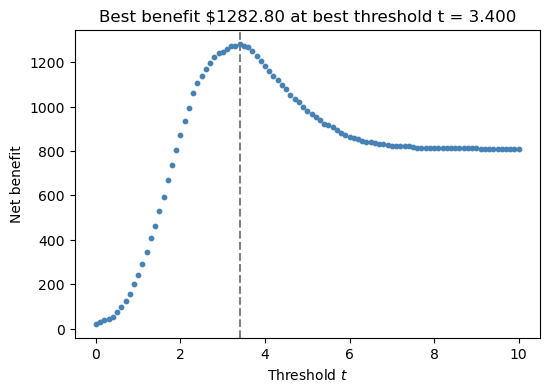
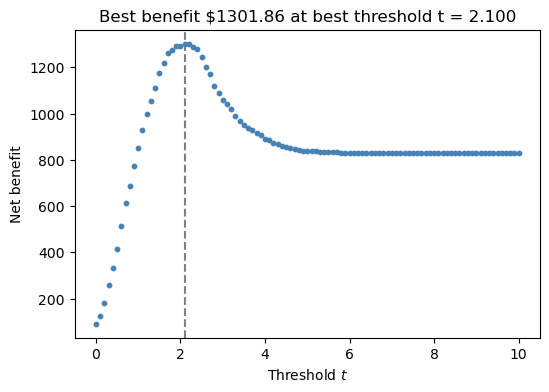
update

diff --git a/docs/posts/Blog 2/index.html b/docs/posts/Blog 2/index.html
@@ -214,7 +214,7 @@ background-size: cover;
 
 <section id="data-exploration" class="level1">
 <h1>Data Exploration</h1>
-<div id="cell-2" class="cell" data-execution_count="21">
+<div id="cell-2" class="cell" data-execution_count="2">
 <div class="sourceCode cell-code" id="cb1"><pre class="sourceCode python code-with-copy"><code class="sourceCode python"><span id="cb1-1"><a href="#cb1-1" aria-hidden="true" tabindex="-1"></a><span class="im">import</span> pandas <span class="im">as</span> pd</span>
 <span id="cb1-2"><a href="#cb1-2" aria-hidden="true" tabindex="-1"></a><span class="im">import</span> numpy <span class="im">as</span> np</span>
 <span id="cb1-3"><a href="#cb1-3" aria-hidden="true" tabindex="-1"></a><span class="im">import</span> seaborn <span class="im">as</span> sns</span>
@@ -230,7 +230,7 @@ background-size: cover;
 <span id="cb1-13"><a href="#cb1-13" aria-hidden="true" tabindex="-1"></a><span class="co"># make a copy to use and view that data</span></span>
 <span id="cb1-14"><a href="#cb1-14" aria-hidden="true" tabindex="-1"></a>df_ <span class="op">=</span> df_train.copy()</span>
 <span id="cb1-15"><a href="#cb1-15" aria-hidden="true" tabindex="-1"></a>df_</span></code><button title="Copy to Clipboard" class="code-copy-button"><i class="bi"></i></button></pre></div>
-<div class="cell-output cell-output-display" data-execution_count="21">
+<div class="cell-output cell-output-display" data-execution_count="2">
 <div>
 
 
@@ -426,7 +426,7 @@ background-size: cover;
 </div>
 </div>
 <p>Lets explore how loan intent varies across age groups</p>
-<div id="cell-4" class="cell" data-execution_count="22">
+<div id="cell-4" class="cell" data-execution_count="3">
 <div class="sourceCode cell-code" id="cb2"><pre class="sourceCode python code-with-copy"><code class="sourceCode python"><span id="cb2-1"><a href="#cb2-1" aria-hidden="true" tabindex="-1"></a><span class="co"># first lets add a column for age groups</span></span>
 <span id="cb2-2"><a href="#cb2-2" aria-hidden="true" tabindex="-1"></a>df_[<span class="st">"age_group"</span>] <span class="op">=</span> df_[<span class="st">"person_age"</span>] <span class="op">//</span> <span class="dv">10</span></span>
 <span id="cb2-3"><a href="#cb2-3" aria-hidden="true" tabindex="-1"></a>df_[<span class="st">"age_group"</span>][df_[<span class="st">"age_group"</span>] <span class="op">&gt;=</span> <span class="dv">10</span> ] <span class="op">=</span> <span class="dv">10</span></span>
@@ -449,7 +449,7 @@ background-size: cover;
 <span id="cb2-20"><a href="#cb2-20" aria-hidden="true" tabindex="-1"></a>ax.set_xlabel(<span class="st">"Age Group"</span>)</span>
 <span id="cb2-21"><a href="#cb2-21" aria-hidden="true" tabindex="-1"></a>ax.set_ylabel(<span class="st">"Proportion"</span>)</span>
 <span id="cb2-22"><a href="#cb2-22" aria-hidden="true" tabindex="-1"></a>ax.set_title(<span class="st">"Loan Intent by Age"</span>)</span></code><button title="Copy to Clipboard" class="code-copy-button"><i class="bi"></i></button></pre></div>
-<div class="cell-output cell-output-display" data-execution_count="22">
+<div class="cell-output cell-output-display" data-execution_count="3">
 <pre><code>Text(0.5, 1.0, 'Loan Intent by Age')</code></pre>
 </div>
 <div class="cell-output cell-output-display">
@@ -461,7 +461,7 @@ background-size: cover;
 </div>
 </div>
 <p>The chart indicates that personal loans are most common among individuals aged 20-29, 40-49, and 90-99, suggesting a consistent need for general-purpose borrowing across different life stages. Medical loans peak in the 40-49 and 50-59 age groups, likely due to increasing healthcare expenses. Education loans spike in the 70-79 age group, which may indicate late-stage career shifts or funding for dependents. Debt consolidation loans are relatively steady, with moderate representation in the 30-39, 50-59, and 60-69 age groups. Home improvement loans have lower proportions overall but see slight increases among borrowers aged 20-29 and 80-89. Venture loans are sporadic, with small peaks in the 50-59 and 60-69 age groups, possibly reflecting mid-life entrepreneurial activity. These trends highlight how borrowing needs evolve across different age brackets.</p>
-<div id="cell-6" class="cell" data-execution_count="23">
+<div id="cell-6" class="cell" data-execution_count="4">
 <div class="sourceCode cell-code" id="cb4"><pre class="sourceCode python code-with-copy"><code class="sourceCode python"><span id="cb4-1"><a href="#cb4-1" aria-hidden="true" tabindex="-1"></a>df_2 <span class="op">=</span> df_train.copy()</span>
 <span id="cb4-2"><a href="#cb4-2" aria-hidden="true" tabindex="-1"></a>df_2[<span class="st">"income_cat"</span>] <span class="op">=</span> df_2[<span class="st">"person_income"</span>] <span class="op">//</span> <span class="dv">100000</span></span>
 <span id="cb4-3"><a href="#cb4-3" aria-hidden="true" tabindex="-1"></a></span>
@@ -486,7 +486,7 @@ Name: loan_amnt, dtype: float64</code></pre>
 </div>
 </div>
 <p>While salary (income category) does seem to affect the loan amount, with people having higher salaries taking out larger loans, the higher income categories actually often have lower loan amounts than the lower income categories. This may be a product of people making larger salaries not needing to take out loans as frequently as the middle salaries, which can afford to take out larger loans and pay them back. Let’s also determine what factors seem to be related to higher interest rates.</p>
-<div id="cell-8" class="cell" data-execution_count="24">
+<div id="cell-8" class="cell" data-execution_count="5">
 <div class="sourceCode cell-code" id="cb6"><pre class="sourceCode python code-with-copy"><code class="sourceCode python"><span id="cb6-1"><a href="#cb6-1" aria-hidden="true" tabindex="-1"></a><span class="bu">print</span>(df_train.groupby([<span class="st">"loan_int_rate"</span>, <span class="st">"loan_grade"</span>]).size())</span></code><button title="Copy to Clipboard" class="code-copy-button"><i class="bi"></i></button></pre></div>
 <div class="cell-output cell-output-stdout">
 <pre><code>loan_int_rate  loan_grade
@@ -505,7 +505,7 @@ Length: 371, dtype: int64</code></pre>
 </div>
 </div>
 <p>From this snapshot of the larger table, it seems that the high grade loans are associated with the lowest interest rates. Lets explore factors related to loan grades by grouping.</p>
-<div id="cell-10" class="cell" data-execution_count="25">
+<div id="cell-10" class="cell" data-execution_count="6">
 <div class="sourceCode cell-code" id="cb8"><pre class="sourceCode python code-with-copy"><code class="sourceCode python"><span id="cb8-1"><a href="#cb8-1" aria-hidden="true" tabindex="-1"></a>temp <span class="op">=</span> df_train.groupby(<span class="st">"loan_grade"</span>)[[<span class="st">"person_income"</span>, <span class="st">"loan_percent_income"</span>, <span class="st">"loan_amnt"</span>]].mean()</span>
 <span id="cb8-2"><a href="#cb8-2" aria-hidden="true" tabindex="-1"></a></span>
 <span id="cb8-3"><a href="#cb8-3" aria-hidden="true" tabindex="-1"></a><span class="bu">print</span>(temp)</span></code><button title="Copy to Clipboard" class="code-copy-button"><i class="bi"></i></button></pre></div>
@@ -522,7 +522,7 @@ G            77342.477273             0.243409  17384.659091</code></pre>
 </div>
 </div>
 <p>As we can see from this datatable, loan grade is directly correlated with lower percent of total income. Meaning that higher quality loans, with lower interest rates are associated with loaners whose loan takes up the smallest percent of their total income. This is likely related to the loan taking up a lower percent of their income making it less likely for them to default on the loan. It also seems to follow that people with higher income tend to take out larger loans.</p>
-<div id="cell-12" class="cell" data-execution_count="26">
+<div id="cell-12" class="cell" data-execution_count="7">
 <div class="sourceCode cell-code" id="cb10"><pre class="sourceCode python code-with-copy"><code class="sourceCode python"><span id="cb10-1"><a href="#cb10-1" aria-hidden="true" tabindex="-1"></a>sns.scatterplot(data <span class="op">=</span> temp, x <span class="op">=</span> temp[<span class="st">"person_income"</span>], y <span class="op">=</span> <span class="st">"loan_amnt"</span>, hue <span class="op">=</span> <span class="st">"loan_percent_income"</span>, legend <span class="op">=</span> <span class="st">"brief"</span>)</span></code><button title="Copy to Clipboard" class="code-copy-button"><i class="bi"></i></button></pre></div>
 <div class="cell-output cell-output-display">
 <div>
@@ -537,7 +537,7 @@ G            77342.477273             0.243409  17384.659091</code></pre>
 <section id="feature-selection-weight-assessment" class="level1">
 <h1>Feature Selection &amp; Weight Assessment</h1>
 <p>Select the predictor and target variables related to loan grade.</p>
-<div id="cell-16" class="cell" data-execution_count="27">
+<div id="cell-16" class="cell" data-execution_count="8">
 <div class="sourceCode cell-code" id="cb11"><pre class="sourceCode python code-with-copy"><code class="sourceCode python"><span id="cb11-1"><a href="#cb11-1" aria-hidden="true" tabindex="-1"></a><span class="im">from</span> sklearn.model_selection <span class="im">import</span> train_test_split</span>
 <span id="cb11-2"><a href="#cb11-2" aria-hidden="true" tabindex="-1"></a></span>
 <span id="cb11-3"><a href="#cb11-3" aria-hidden="true" tabindex="-1"></a><span class="co"># select the predictor variables identified with loan grade. Also the include the loaners default history</span></span>
@@ -564,7 +564,7 @@ G            77342.477273             0.243409  17384.659091</code></pre>
 <span id="cb11-24"><a href="#cb11-24" aria-hidden="true" tabindex="-1"></a>X_train, X_test, y_train, y_test <span class="op">=</span> train_test_split(X_model, y_model, test_size<span class="op">=</span><span class="fl">0.2</span>)</span></code><button title="Copy to Clipboard" class="code-copy-button"><i class="bi"></i></button></pre></div>
 </div>
 <p>Fit a Linear Regression model to the data and assess its accuracy of prediction. Try all combinations of predictors. Once a good model is fit, pull out the weight coefficient to use for a linear score based classifier.</p>
-<div id="cell-18" class="cell" data-execution_count="28">
+<div id="cell-18" class="cell" data-execution_count="9">
 <div class="sourceCode cell-code" id="cb12"><pre class="sourceCode python code-with-copy"><code class="sourceCode python"><span id="cb12-1"><a href="#cb12-1" aria-hidden="true" tabindex="-1"></a><span class="im">from</span> sklearn.linear_model <span class="im">import</span> LogisticRegression</span>
 <span id="cb12-2"><a href="#cb12-2" aria-hidden="true" tabindex="-1"></a><span class="im">from</span> sklearn.model_selection <span class="im">import</span> cross_val_score</span>
 <span id="cb12-3"><a href="#cb12-3" aria-hidden="true" tabindex="-1"></a><span class="im">from</span> itertools <span class="im">import</span> combinations</span>
@@ -597,7 +597,7 @@ G            77342.477273             0.243409  17384.659091</code></pre>
 <span id="cb12-30"><a href="#cb12-30" aria-hidden="true" tabindex="-1"></a>        results.append({<span class="st">"features"</span>: test_cols, <span class="st">"accuracy"</span>: accuracy})</span></code><button title="Copy to Clipboard" class="code-copy-button"><i class="bi"></i></button></pre></div>
 </div>
 <p>From the list of feature combinations, pull out the top 5 and retest them against the premade training and testing data. Once the best from this list has been identified, verify its accuracy with cross validation to check for overfitting. If the features pass, pull out the weights coefficient to use for a linear score based classifier.</p>
-<div id="cell-20" class="cell" data-execution_count="29">
+<div id="cell-20" class="cell" data-execution_count="10">
 <div class="sourceCode cell-code" id="cb13"><pre class="sourceCode python code-with-copy"><code class="sourceCode python"><span id="cb13-1"><a href="#cb13-1" aria-hidden="true" tabindex="-1"></a><span class="co"># select the top results by accuracy</span></span>
 <span id="cb13-2"><a href="#cb13-2" aria-hidden="true" tabindex="-1"></a>best_features <span class="op">=</span> pd.DataFrame(results).sort_values(by <span class="op">=</span> <span class="st">"accuracy"</span>, ascending <span class="op">=</span> <span class="va">False</span>).head(<span class="dv">5</span>)[<span class="st">"features"</span>].tolist()</span>
 <span id="cb13-3"><a href="#cb13-3" aria-hidden="true" tabindex="-1"></a></span>
@@ -631,9 +631,9 @@ G            77342.477273             0.243409  17384.659091</code></pre>
 <span id="cb13-31"><a href="#cb13-31" aria-hidden="true" tabindex="-1"></a>s <span class="op">=</span> w.shape</span>
 <span id="cb13-32"><a href="#cb13-32" aria-hidden="true" tabindex="-1"></a>w <span class="op">=</span> w.reshape(s[<span class="dv">1</span>], s[<span class="dv">0</span>])</span></code><button title="Copy to Clipboard" class="code-copy-button"><i class="bi"></i></button></pre></div>
 <div class="cell-output cell-output-stdout">
-<pre><code>The predictors with the highest testing accuracy are: ['person_income', 'loan_amnt', 'loan_percent_income', 'loan_int_rate', 'weighted_interest']
-Accuracy = 0.8297686599738106
-Cross validation for the selected predictors: [0.81679389 0.82006543 0.81441048 0.8231441  0.82641921]</code></pre>
+<pre><code>The predictors with the highest testing accuracy are: ['loan_amnt', 'loan_percent_income']
+Accuracy = 0.8197293758184199
+Cross validation for the selected predictors: [0.81461287 0.81352236 0.81222707 0.80895197 0.81004367]</code></pre>
 </div>
 </div>
 <p>Upon inspecting accuracy versus the overall test set income the predictors above were selected as the best variables based purely on accuracy. These predictors also had reasonable cross validation scores that were similar to the overall testing accuracy; this implies that the model is consisent and not overfit. The weight constants from this model were then pulled out and stored for later used in a linear score function.</p>
@@ -641,7 +641,7 @@ Cross validation for the selected predictors: [0.81679389 0.82006543 0.81441048 
 <section id="optimizing-a-linear-score-classification" class="level1">
 <h1>Optimizing a Linear Score Classification</h1>
 <p>Start by defining our linear score function using our weight vector and our classification function with an arbitrary starting threshold. We will then optimize this threshold such that the bank makes the largest possible profit per loan.</p>
-<div id="cell-24" class="cell" data-execution_count="30">
+<div id="cell-24" class="cell" data-execution_count="11">
 <div class="sourceCode cell-code" id="cb15"><pre class="sourceCode python code-with-copy"><code class="sourceCode python"><span id="cb15-1"><a href="#cb15-1" aria-hidden="true" tabindex="-1"></a><span class="im">from</span> matplotlib <span class="im">import</span> pyplot <span class="im">as</span> plt</span>
 <span id="cb15-2"><a href="#cb15-2" aria-hidden="true" tabindex="-1"></a></span>
 <span id="cb15-3"><a href="#cb15-3" aria-hidden="true" tabindex="-1"></a><span class="co"># Performs the dot product between the data vector X and the weight vector w</span></span>
@@ -691,8 +691,8 @@ Cross validation for the selected predictors: [0.81679389 0.82006543 0.81441048 
 </div>
 </div>
 </div>
-<p>Maximization of the bank’s profit results in a threshold of 3.4, with a profit per buyer of $1282.80. The value of the threshold has been stored for later use. Lets now test the model with our optimal weight vector and threshold against new testing data.</p>
-<div id="cell-26" class="cell" data-execution_count="31">
+<p>Maximization of the bank’s profit results in a threshold of 2.1, with a profit per buyer of $1301.86. The value of the threshold has been stored for later use. Lets now test the model with our optimal weight vector and threshold against new testing data.</p>
+<div id="cell-26" class="cell" data-execution_count="12">
 <div class="sourceCode cell-code" id="cb16"><pre class="sourceCode python code-with-copy"><code class="sourceCode python"><span id="cb16-1"><a href="#cb16-1" aria-hidden="true" tabindex="-1"></a>url <span class="op">=</span> <span class="st">"https://raw.githubusercontent.com/PhilChodrow/ml-notes/main/data/credit-risk/test.csv"</span></span>
 <span id="cb16-2"><a href="#cb16-2" aria-hidden="true" tabindex="-1"></a>df_test <span class="op">=</span> pd.read_csv(url)</span>
 <span id="cb16-3"><a href="#cb16-3" aria-hidden="true" tabindex="-1"></a></span>
@@ -729,13 +729,98 @@ Cross validation for the selected predictors: [0.81679389 0.82006543 0.81441048 
 <span id="cb16-34"><a href="#cb16-34" aria-hidden="true" tabindex="-1"></a>average_benefit <span class="op">=</span> np.<span class="bu">sum</span>(df_test[<span class="st">"benefit"</span>]) <span class="op">/</span> <span class="bu">len</span>(df_test)</span>
 <span id="cb16-35"><a href="#cb16-35" aria-hidden="true" tabindex="-1"></a><span class="bu">print</span>(<span class="st">"The expected profit per buyer is: $"</span> <span class="op">+</span> <span class="bu">str</span>(<span class="bu">round</span>(average_benefit, <span class="dv">2</span>)))</span></code><button title="Copy to Clipboard" class="code-copy-button"><i class="bi"></i></button></pre></div>
 <div class="cell-output cell-output-stdout">
-<pre><code>The expected profit per buyer is: $1198.18</code></pre>
+<pre><code>The expected profit per buyer is: $1227.71</code></pre>
 </div>
 </div>
-<p>The expected profit per buyer on the test set ($1198.18) is only slightly lower than the expected profit per buyer on the training set ($1282.80). Thus our model was able to generalize from the training set.</p>
+<p>The expected profit per buyer on the test set ($1301.86) is only slightly lower than the expected profit per buyer on the training set ($1227.71). Thus our model was able to generalize from the training set.</p>
 </section>
 <section id="evaluating-model-fairness" class="level1">
 <h1>Evaluating Model Fairness</h1>
+<p>Lets explore if some loaners are more or less likely to receive loans based on their age</p>
+<div id="cell-30" class="cell" data-execution_count="31">
+<div class="sourceCode cell-code" id="cb18"><pre class="sourceCode python code-with-copy"><code class="sourceCode python"><span id="cb18-1"><a href="#cb18-1" aria-hidden="true" tabindex="-1"></a><span class="co"># remake age groups in 10 year gaps</span></span>
+<span id="cb18-2"><a href="#cb18-2" aria-hidden="true" tabindex="-1"></a>df_test[<span class="st">"age_group"</span>] <span class="op">=</span> df_test[<span class="st">"person_age"</span>] <span class="op">//</span> <span class="dv">10</span></span>
+<span id="cb18-3"><a href="#cb18-3" aria-hidden="true" tabindex="-1"></a>df_test[<span class="st">"diff"</span>] <span class="op">=</span> df_test[<span class="st">"y_pred"</span>] <span class="op">-</span> df_test[<span class="st">"loan_status"</span>]</span>
+<span id="cb18-4"><a href="#cb18-4" aria-hidden="true" tabindex="-1"></a></span>
+<span id="cb18-5"><a href="#cb18-5" aria-hidden="true" tabindex="-1"></a>temp <span class="op">=</span> df_test.groupby(<span class="st">"age_group"</span>)[[<span class="st">"loan_status"</span>, <span class="st">"y_pred"</span>, <span class="st">"diff"</span>]].mean().reset_index()</span>
+<span id="cb18-6"><a href="#cb18-6" aria-hidden="true" tabindex="-1"></a>temp</span></code><button title="Copy to Clipboard" class="code-copy-button"><i class="bi"></i></button></pre></div>
+<div class="cell-output cell-output-display" data-execution_count="31">
+<div>
+
+
+<table class="dataframe caption-top table table-sm table-striped small" data-quarto-postprocess="true" data-border="1">
+<thead>
+<tr class="header">
+<th data-quarto-table-cell-role="th"></th>
+<th data-quarto-table-cell-role="th">age_group</th>
+<th data-quarto-table-cell-role="th">loan_status</th>
+<th data-quarto-table-cell-role="th">y_pred</th>
+<th data-quarto-table-cell-role="th">diff</th>
+</tr>
+</thead>
+<tbody>
+<tr class="odd">
+<td data-quarto-table-cell-role="th">0</td>
+<td>2</td>
+<td>0.228689</td>
+<td>0.163246</td>
+<td>-0.065443</td>
+</tr>
+<tr class="even">
+<td data-quarto-table-cell-role="th">1</td>
+<td>3</td>
+<td>0.204082</td>
+<td>0.136578</td>
+<td>-0.067504</td>
+</tr>
+<tr class="odd">
+<td data-quarto-table-cell-role="th">2</td>
+<td>4</td>
+<td>0.200000</td>
+<td>0.138462</td>
+<td>-0.061538</td>
+</tr>
+<tr class="even">
+<td data-quarto-table-cell-role="th">3</td>
+<td>5</td>
+<td>0.261905</td>
+<td>0.119048</td>
+<td>-0.142857</td>
+</tr>
+<tr class="odd">
+<td data-quarto-table-cell-role="th">4</td>
+<td>6</td>
+<td>0.500000</td>
+<td>0.333333</td>
+<td>-0.166667</td>
+</tr>
+<tr class="even">
+<td data-quarto-table-cell-role="th">5</td>
+<td>7</td>
+<td>0.500000</td>
+<td>0.500000</td>
+<td>0.000000</td>
+</tr>
+</tbody>
+</table>
+
+</div>
+</div>
+</div>
+<p>In almost all age groups (age group 7 only has two individuals) the algorithm underpredicts the loan default rate. However, two age groups which are far less likely to get a loan than other groups (excluding group 7), are age group 20-29 and 60-69. Despite, the algorithim underpredicting the default rate in this age group, especially in the 60-69 age group, these groups are still predicted to be much more likely to defualt than the other age groups. Lets now look at the difficulty of getting loans based on loan intent.</p>
+<div id="cell-32" class="cell" data-execution_count="43">
+<div class="sourceCode cell-code" id="cb19"><pre class="sourceCode python code-with-copy"><code class="sourceCode python"><span id="cb19-1"><a href="#cb19-1" aria-hidden="true" tabindex="-1"></a>temp2 <span class="op">=</span> df_test.copy()</span>
+<span id="cb19-2"><a href="#cb19-2" aria-hidden="true" tabindex="-1"></a>temp2.groupby(<span class="st">"loan_intent"</span>)[[<span class="st">"y_pred"</span>, <span class="st">"loan_status"</span>]].mean()</span>
+<span id="cb19-3"><a href="#cb19-3" aria-hidden="true" tabindex="-1"></a>temp2_melted <span class="op">=</span> pd.melt(temp2, id_vars <span class="op">=</span> <span class="st">"loan_intent"</span>, value_vars <span class="op">=</span> [<span class="st">"y_pred"</span>, <span class="st">"loan_status"</span>], var_name <span class="op">=</span> <span class="st">"Type"</span>, value_name <span class="op">=</span> <span class="st">"Val"</span>)</span>
+<span id="cb19-4"><a href="#cb19-4" aria-hidden="true" tabindex="-1"></a>sns.barplot(data <span class="op">=</span> temp2_melted, x <span class="op">=</span> <span class="st">"loan_intent"</span>, y <span class="op">=</span> <span class="st">"Val"</span>, hue <span class="op">=</span> <span class="st">"Type"</span>, palette <span class="op">=</span> <span class="st">"BuPu"</span>, saturation <span class="op">=</span> <span class="fl">0.5</span>, width <span class="op">=</span> <span class="fl">.5</span>)</span></code><button title="Copy to Clipboard" class="code-copy-button"><i class="bi"></i></button></pre></div>
+<div class="cell-output cell-output-display">
+<div>
+<figure class="figure">
+<p><img src="index_files/figure-html/cell-14-output-1.png" class="img-fluid figure-img"></p>
+</figure>
+</div>
+</div>
+</div>
 
 
 </section>

diff --git a/docs/index.html b/docs/index.html
@@ -223,7 +223,7 @@ window.Quarto = {
 
 <div class="quarto-listing quarto-listing-container-default" id="listing-listing">
 <div class="list quarto-listing-default">
-<div class="quarto-post image-right" data-index="0" data-listing-date-sort="1709614800000" data-listing-file-modified-sort="1741045180666" data-listing-date-modified-sort="NaN" data-listing-reading-time-sort="4" data-listing-word-count-sort="675">
+<div class="quarto-post image-right" data-index="0" data-listing-date-sort="1709614800000" data-listing-file-modified-sort="1741190241676" data-listing-date-modified-sort="NaN" data-listing-reading-time-sort="4" data-listing-word-count-sort="781">
 <div class="thumbnail">
 <p><a href="./posts/Blog 2/index.html" class="no-external"></a></p><a href="./posts/Blog 2/index.html" class="no-external">
 <p><img loading="lazy" src="./posts/Blog 2/image.jpg" class="thumbnail-image"></p>
